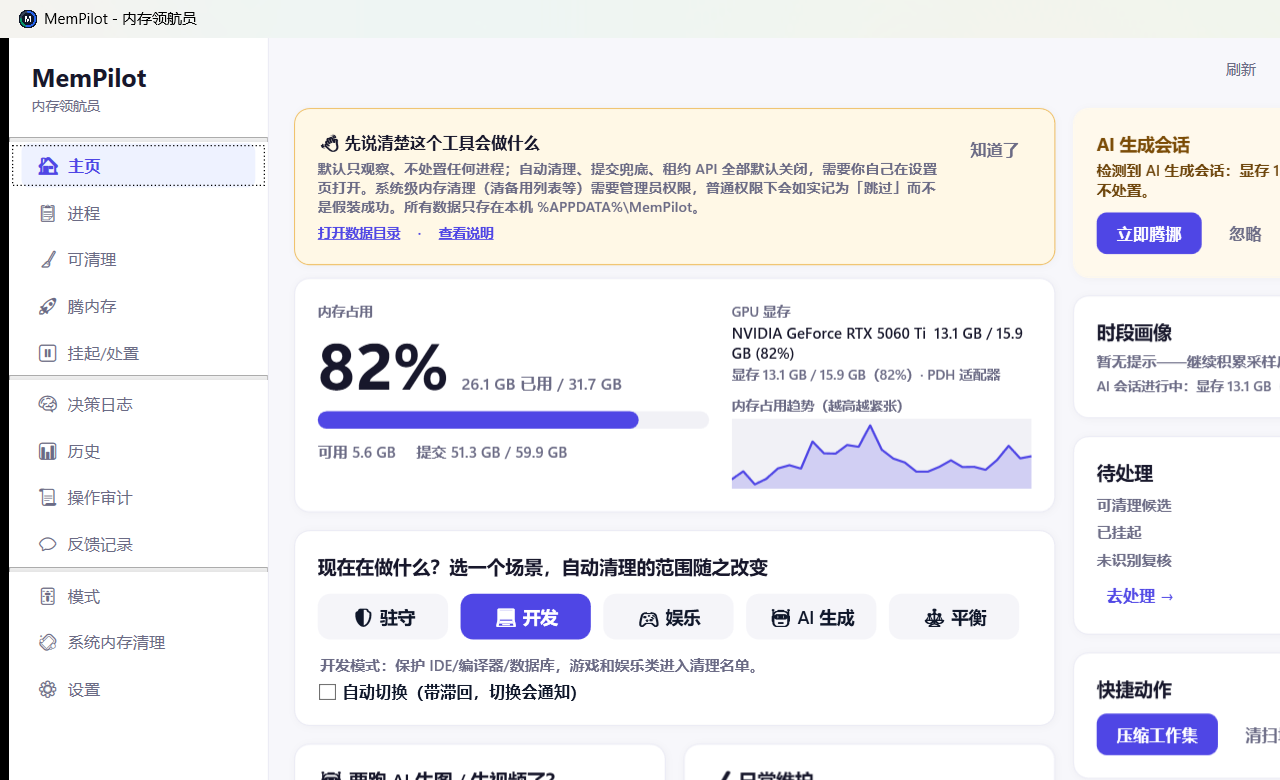
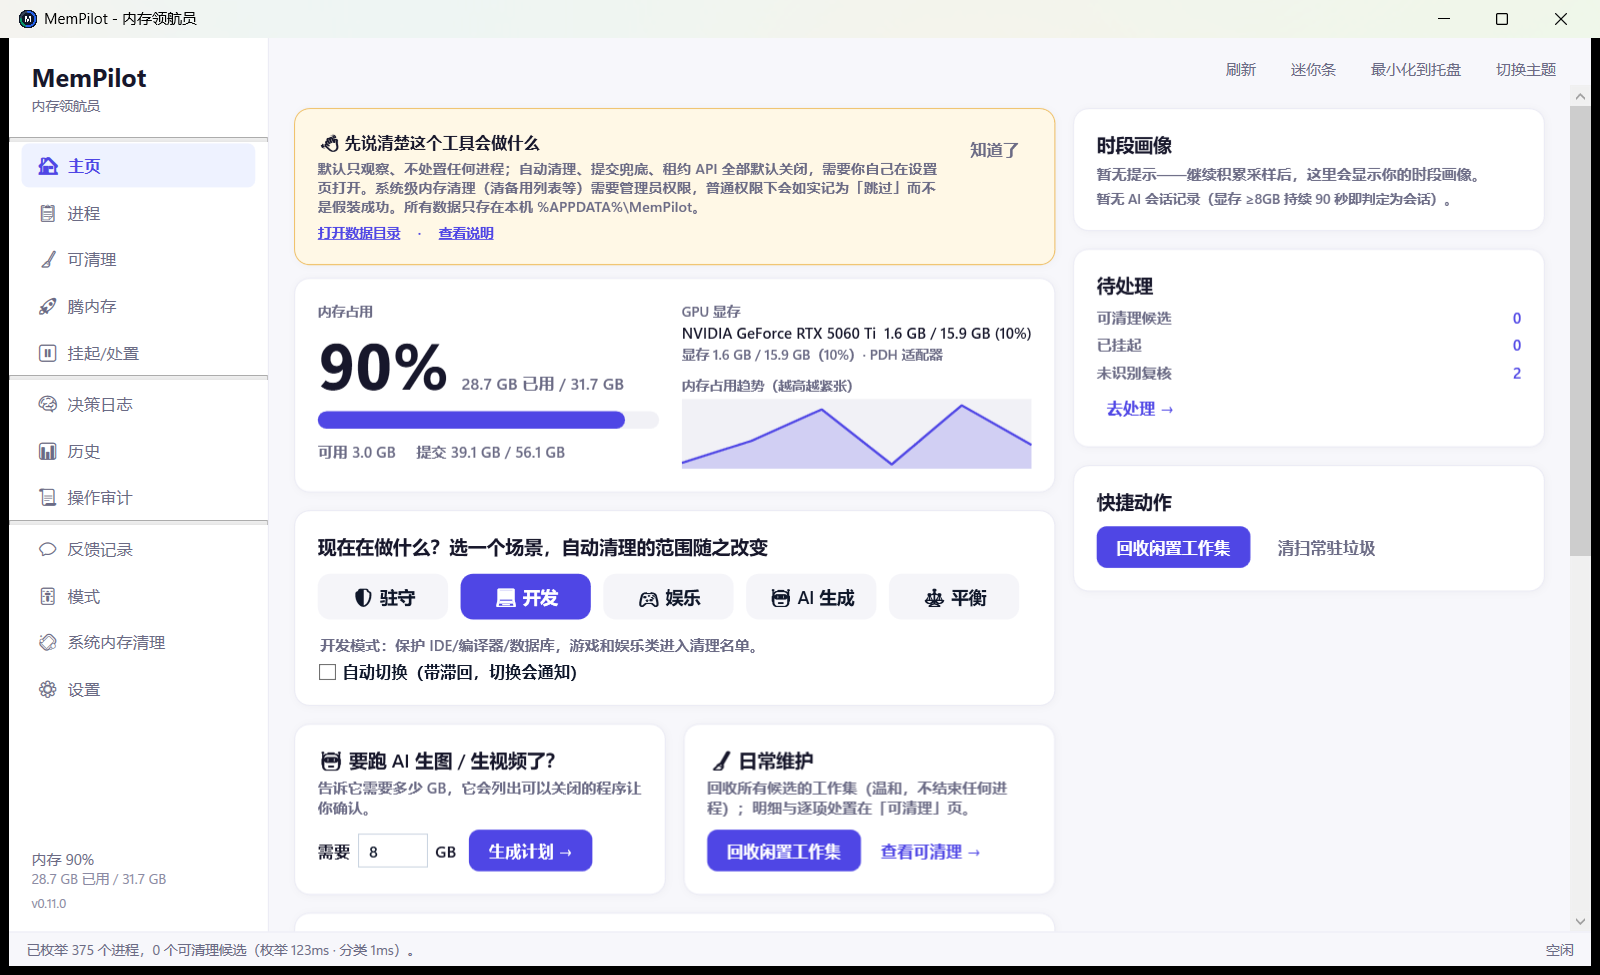
feat: v0.12.0 — UX 摸排 P2 打磨：主题 token 化 + 菜单分组 + 导航重组
- 主题：MainWindow 里 10 处硬编码 hex 收进 App.xaml 语义 token（暗色将来只改一处）；
  删重复 token；守卫测试在此过程中抓到真崩溃（DropShadowEffect.Color 不能吃 Brush）
- 进程右键 17 项平铺 → 4 组（处置/内存策略/标记/线程）+ 组头；列设置 12 项 → 4 组
- 导航：反馈记录 观测→高级；emoji 单空格；删死注释
- 决策日志 Kind 列中文映射（UiTerms.OfKind 15 类）；进程工具栏 WrapPanel；
  首页「日常维护」卡去重（计数只出现一次）

测试 377 全绿

diff --git a/src/MemPilot.App/MainWindow.xaml b/src/MemPilot.App/MainWindow.xaml
@@ -11,6 +11,7 @@
     <Window.Resources>
         <helpers:ByteSizeConverter x:Key="Bytes"/>
         <helpers:CollectionEmptyToVisibility x:Key="CollEmpty"/>
+        <helpers:KindTextConverter x:Key="KindText"/>
         <helpers:SignedBytesConverter x:Key="SignedBytes"/>
         <helpers:WorkloadTextConverter x:Key="WorkloadText"/>
         <helpers:IndentConverter x:Key="Indent"/>
@@ -41,7 +42,7 @@
                                     <Condition Property="IsSelected" Value="False"/>
                                 </MultiTrigger.Conditions>
                                 <Setter TargetName="Bd" Property="Background" Value="{DynamicResource NavHoverBg}"/>
-                                <Setter Property="Foreground" Value="#334155"/>
+                                <Setter Property="Foreground" Value="{DynamicResource NavHoverFg}"/>
                             </MultiTrigger>
                         </ControlTemplate.Triggers>
                     </ControlTemplate>
@@ -126,7 +127,7 @@
             <Setter Property="Margin" Value="0,0,0,14"/>
             <Setter Property="Effect">
                 <Setter.Value>
-                    <DropShadowEffect Color="#17172B" Opacity="0.035" BlurRadius="10" ShadowDepth="1"/>
+                    <DropShadowEffect Color="{DynamicResource WindowShadow}" Opacity="0.035" BlurRadius="10" ShadowDepth="1"/>
                 </Setter.Value>
             </Setter>
         </Style>
@@ -214,7 +215,7 @@
         </Style>
 
         <Style x:Key="DgHeader" TargetType="DataGridColumnHeader">
-            <Setter Property="Background" Value="#FAFAFC"/>
+            <Setter Property="Background" Value="{DynamicResource GridHeaderBg}"/>
             <Setter Property="Foreground" Value="{DynamicResource TextSecondary}"/>
             <Setter Property="FontWeight" Value="SemiBold"/>
             <Setter Property="FontSize" Value="{StaticResource FsCaption}"/>
@@ -230,7 +231,7 @@
             <Setter Property="RowHeight" Value="28"/>
             <Setter Property="AlternatingRowBackground" Value="{DynamicResource RowAltBg}"/>
             <Setter Property="GridLinesVisibility" Value="Horizontal"/>
-            <Setter Property="HorizontalGridLinesBrush" Value="#E5E7EB"/>
+            <Setter Property="HorizontalGridLinesBrush" Value="{DynamicResource GridLine}"/>
             <Setter Property="ColumnHeaderStyle" Value="{StaticResource DgHeader}"/>
             <Setter Property="EnableRowVirtualization" Value="True"/>
             <Setter Property="VirtualizingPanel.IsVirtualizing" Value="True"/>
@@ -322,7 +323,7 @@
                             <!-- v0.10.0 首次运行说明：第一次打开时出现，点「知道了」后永久不再显示。
                                  不弹模态框（用户明确反感），就一条可关闭的横幅。 -->
                             <Border x:Name="FirstRunNotice" Style="{StaticResource Card}" Margin="0,0,0,10"
-                                    Background="#FFF8E6" BorderBrush="#F0C36D" BorderThickness="1"
+                                    Background="{DynamicResource NoticeBg}" BorderBrush="{DynamicResource NoticeBorder}" BorderThickness="1"
                                     Visibility="Collapsed">
                                 <Grid>
                                     <Grid.ColumnDefinitions>
@@ -375,7 +376,7 @@
                                         <TextBlock Text="内存占用趋势（越高越紧张）" Style="{StaticResource CaptionText}"/>
                                         <Viewbox Height="56" Stretch="Fill" HorizontalAlignment="Stretch" Margin="0,4,0,0">
                                             <Canvas Width="260" Height="64" Background="{DynamicResource TrackBg}" ClipToBounds="True">
-                                                <Polygon Points="{Binding MemoryTrendAreaPoints}" Fill="#334F46E5"/>
+                                                <Polygon Points="{Binding MemoryTrendAreaPoints}" Fill="{DynamicResource TrendAreaFill}"/>
                                                 <Polyline Points="{Binding MemoryTrendPoints}" Stroke="{DynamicResource AccentBlue}" StrokeThickness="2" StrokeLineJoin="Round"/>
                                             </Canvas>
                                         </Viewbox>
@@ -418,8 +419,8 @@
                                 <Border Grid.Column="1" Style="{StaticResource Card}" Margin="7,0,0,14">
                                     <StackPanel>
                                         <TextBlock Text="🧹 日常维护" Style="{StaticResource SectionTitle}"/>
-                                        <TextBlock Foreground="{DynamicResource TextSecondary}" FontSize="12" Margin="0,4,0,10">
-                                            可清理候选 <Run Text="{Binding UnusedCandidates.Count, Mode=OneWay}" FontWeight="Bold"/><Run Text=" 个 · 已挂起 "/><Run Text="{Binding SuspendedProcesses.Count, Mode=OneWay}" FontWeight="Bold"/><Run Text=" 个"/>
+                                        <TextBlock Foreground="{DynamicResource TextSecondary}" FontSize="12" Margin="0,4,0,10" TextWrapping="Wrap">
+                                            回收所有候选的工作集（温和，不结束任何进程）；明细与逐项处置在「可清理」页。
                                         </TextBlock>
                                         <StackPanel Orientation="Horizontal">
                                             <Button Content="回收闲置工作集" Click="Optimize_Click" Style="{StaticResource PrimaryBtn}"/>
@@ -439,7 +440,7 @@
                                         <ItemsControl.ItemTemplate>
                                             <DataTemplate>
                                                 <TextBlock Margin="0,3" FontSize="12" TextWrapping="Wrap">
-                                                    <Run Text="{Binding TimeText, Mode=OneWay}" Foreground="#94A3B8"/>
+                                                    <Run Text="{Binding TimeText, Mode=OneWay}" Foreground="{DynamicResource TimestampMuted}"/>
                                                     <Run Text="{Binding LineText, Mode=OneWay}"/>
                                                 </TextBlock>
                                             </DataTemplate>
@@ -549,7 +550,7 @@
                     </Grid.RowDefinitions>
                     <DockPanel Margin="0,0,0,6">
                         <TextBlock DockPanel.Dock="Right" Text="右键 = 处置 · 双击 = 定位文件" VerticalAlignment="Center" FontSize="11" Foreground="{DynamicResource TextSecondary}"/>
-                        <StackPanel Orientation="Horizontal">
+                        <WrapPanel>
                             <TextBox x:Name="SearchBox" Width="200" Margin="0,0,8,0" TextChanged="SearchBox_TextChanged" Padding="6,5" VerticalContentAlignment="Center"/>
                             <ComboBox x:Name="WorkloadFilterBox" Width="104" Margin="0,0,8,0" VerticalAlignment="Center" ToolTip="按用途筛选（工作/娱乐/AI/系统/其他/未知）" SelectionChanged="WorkloadFilter_Changed">
                                 <ComboBoxItem Content="全部用途" Tag=""/>
@@ -565,17 +566,22 @@
                                 <Button.ContextMenu>
                                     <ContextMenu Opened="ColumnMenu_Opened">
                                         <!-- Tag = 稳定 id（写进 config.json），Header = 显示文本。
-                                             v0.10.0 起两者分离，否则加语言会让列设置静默重置。 -->
+                                             v0.10.0 起两者分离，否则加语言会让列设置静默重置。
+                                             v0.11.0：12 项平铺 → 4 组（标识/内存/显存/证据），组头禁用项仅作标题 -->
+                                        <MenuItem Header="标识" IsEnabled="False" FontWeight="SemiBold"/>
                                         <MenuItem Header="所属程序" Tag="program" IsCheckable="True" Click="ColumnToggle_Click"/>
-                                        <MenuItem Header="显存" Tag="gpu_memory" IsCheckable="True" Click="ColumnToggle_Click"/>
-                                        <MenuItem Header="内存增长" Tag="memory_growth" IsCheckable="True" Click="ColumnToggle_Click"/>
-                                        <MenuItem Header="线程数" Tag="threads" IsCheckable="True" Click="ColumnToggle_Click"/>
-                                        <MenuItem Header="子进程" Tag="child_count" IsCheckable="True" Click="ColumnToggle_Click"/>
                                         <MenuItem Header="窗口标题" Tag="window_title" IsCheckable="True" Click="ColumnToggle_Click"/>
                                         <MenuItem Header="厂商" Tag="vendor" IsCheckable="True" Click="ColumnToggle_Click"/>
+                                        <MenuItem Header="线程数" Tag="threads" IsCheckable="True" Click="ColumnToggle_Click"/>
+                                        <MenuItem Header="子进程" Tag="child_count" IsCheckable="True" Click="ColumnToggle_Click"/>
+                                        <MenuItem Header="内存" IsEnabled="False" FontWeight="SemiBold"/>
+                                        <MenuItem Header="内存增长" Tag="memory_growth" IsCheckable="True" Click="ColumnToggle_Click"/>
                                         <MenuItem Header="音频" Tag="audio" IsCheckable="True" Click="ColumnToggle_Click"/>
                                         <MenuItem Header="保护" Tag="protected" IsCheckable="True" Click="ColumnToggle_Click"/>
                                         <MenuItem Header="模式保留" Tag="mode_keep" IsCheckable="True" Click="ColumnToggle_Click"/>
+                                        <MenuItem Header="显存" IsEnabled="False" FontWeight="SemiBold"/>
+                                        <MenuItem Header="显存" Tag="gpu_memory" IsCheckable="True" Click="ColumnToggle_Click"/>
+                                        <MenuItem Header="证据" IsEnabled="False" FontWeight="SemiBold"/>
                                         <MenuItem Header="签名" Tag="signature" IsCheckable="True" Click="ColumnToggle_Click"/>
                                         <MenuItem Header="分类依据" Tag="category_reason" IsCheckable="True" Click="ColumnToggle_Click"/>
                                     </ContextMenu>
@@ -588,7 +594,7 @@
                             <ToggleButton x:Name="ChipGame" Content="游戏" Style="{StaticResource ToolToggle}" Click="CategoryChip_Click" Margin="0,0,4,0"/>
                             <ToggleButton x:Name="ChipAi" Content="AI" Style="{StaticResource ToolToggle}" Click="CategoryChip_Click" Margin="0,0,4,0"/>
                             <ToggleButton x:Name="ChipUnknown" Content="未识别" Style="{StaticResource ToolToggle}" Click="CategoryChip_Click"/>
-                        </StackPanel>
+                        </WrapPanel>
                     </DockPanel>
                     <Grid Grid.Row="1"><DataGrid x:Name="ProcessGrid" ItemsSource="{Binding FilteredProcesses}" AutoGenerateColumns="False" IsReadOnly="True" FrozenColumnCount="2" SelectionChanged="ProcessGrid_SelectionChanged" MouseDoubleClick="ProcessGrid_DoubleClick" Sorting="ProcessGrid_Sorting">
                         <DataGrid.RowStyle>
@@ -608,19 +614,23 @@
                         </DataGrid.RowStyle>
                         <DataGrid.ContextMenu>
                             <ContextMenu>
-                                <MenuItem Header="L1 回收工作集（温和）" Click="CtxL1_Click"/>
-                                <MenuItem Header="L2 挂起进程（可恢复）" Click="CtxL2_Click"/>
-                                <MenuItem Header="L3 优雅关闭（先让它自己退出）" Click="CtxL3_Click"/>
-                                <MenuItem Header="L4 强制结束（需确认）" Click="CtxL4_Click"/>
+                                <MenuItem Header="处置" IsEnabled="False" FontWeight="SemiBold"/>
+                                <MenuItem Header="回收工作集 (L1)" Click="CtxL1_Click"/>
+                                <MenuItem Header="挂起 (L2，可恢复)" Click="CtxL2_Click"/>
+                                <MenuItem Header="优雅关闭 (L3)" Click="CtxL3_Click"/>
+                                <MenuItem Header="强制结束 (L4，需确认)" Click="CtxL4_Click"/>
                                 <Separator/>
                                 <MenuItem Header="恢复挂起" Click="CtxResumeProcess_Click"/>
-                                <MenuItem Header="线程 ▸ 管理线程（TID 级挂起/恢复）" Click="ManageThreads_Click"/>
+                                <MenuItem Header="管理线程 (TID 级挂起/恢复)" Click="ManageThreads_Click"/>
+                                <Separator/>
+                                <MenuItem Header="内存策略" IsEnabled="False" FontWeight="SemiBold"/>
                                 <Separator/>
                                 <MenuItem Header="降低内存优先级" Click="CtxMemPriorityLow_Click"/>
                                 <MenuItem Header="恢复内存优先级" Click="CtxMemPriorityNormal_Click"/>
                                 <MenuItem Header="开启 EcoQoS 节能" Click="CtxEcoOn_Click"/>
                                 <MenuItem Header="关闭 EcoQoS" Click="CtxEcoOff_Click"/>
                                 <Separator/>
+                                <MenuItem Header="标记" IsEnabled="False" FontWeight="SemiBold"/>
                                 <MenuItem Header="标记用途">
                                     <MenuItem Header="工作" Tag="Work" Click="CtxWorkload_Click"/>
                                     <MenuItem Header="娱乐" Tag="Entertainment" Click="CtxWorkload_Click"/>
@@ -866,7 +876,7 @@
                     <Grid><DataGrid Grid.Row="1" ItemsSource="{Binding DecisionEntries}" AutoGenerateColumns="False" IsReadOnly="True">
                         <DataGrid.Columns>
                             <DataGridTextColumn Header="时间" Binding="{Binding TimeText}" Width="150"/>
-                            <DataGridTextColumn Header="类别" Binding="{Binding Kind}" Width="110"/>
+                            <DataGridTextColumn Header="类别" Binding="{Binding Kind, Converter={StaticResource KindText}}" Width="110"/>
                             <DataGridTextColumn Header="目标" Binding="{Binding Target}" Width="220"/>
                             <DataGridTextColumn Header="决定" Binding="{Binding Decision}" Width="130"/>
                             <DataGridTextColumn Header="原因" Binding="{Binding Reason}" Width="*"/>
@@ -898,7 +908,7 @@
                                     <TextBlock Canvas.Left="646" Canvas.Top="2" Text="100%" FontSize="9" Foreground="{DynamicResource TextSecondary}"/>
                                     <TextBlock Canvas.Left="646" Canvas.Top="72" Text="50%" FontSize="9" Foreground="{DynamicResource TextSecondary}"/>
                                     <TextBlock Canvas.Left="646" Canvas.Top="142" Text="0%" FontSize="9" Foreground="{DynamicResource TextSecondary}"/>
-                                    <Polygon Points="{Binding HistoryAreaPoints}" Fill="#332563EB"/>
+                                    <Polygon Points="{Binding HistoryAreaPoints}" Fill="{DynamicResource HistoryAreaFill}"/>
                                     <Polyline Points="{Binding HistoryPoints}" Stroke="{DynamicResource AccentBlue}" StrokeThickness="2.5" StrokeLineJoin="Round"/>
                                 </Canvas>
                                 </Viewbox>
@@ -917,7 +927,7 @@
                                     <TextBlock Canvas.Left="646" Canvas.Top="2" Text="100%" FontSize="9" Foreground="{DynamicResource TextSecondary}"/>
                                     <TextBlock Canvas.Left="646" Canvas.Top="72" Text="50%" FontSize="9" Foreground="{DynamicResource TextSecondary}"/>
                                     <TextBlock Canvas.Left="646" Canvas.Top="142" Text="0%" FontSize="9" Foreground="{DynamicResource TextSecondary}"/>
-                                    <Polygon Points="{Binding GpuHistoryAreaPoints}" Fill="#3355C8A5"/>
+                                    <Polygon Points="{Binding GpuHistoryAreaPoints}" Fill="{DynamicResource GpuAreaFill}"/>
                                     <Polyline Points="{Binding GpuHistoryPoints}" Stroke="{DynamicResource AccentGreen}" StrokeThickness="2.5" StrokeLineJoin="Round"/>
                                 </Canvas>
                                 </Viewbox>
@@ -1012,8 +1022,9 @@
                                    Visibility="{Binding AuditEntries, Converter={StaticResource CollEmpty}}"/></Grid>
             </TabItem>
 
-            <!-- ============ 线程 ============ -->
             <!-- ============ 模式 ============ -->
+            
+            <TextBlock Text="高级" Style="{StaticResource NavGroup}"/>
             <TabItem Header="💬  反馈记录" Tag="feedback" Style="{StaticResource NavTab}">
                 <Grid Margin="14,14,14,0">
                     <Grid.RowDefinitions>
@@ -1044,8 +1055,6 @@
                     </DataGrid>
                 </Grid>
             </TabItem>
-
-            <TextBlock Text="高级" Style="{StaticResource NavGroup}"/>
             <TabItem Header="🎚  模式" Tag="mode" Style="{StaticResource NavTab}">
                 <!-- v0.11.0：标题移到页首（原来在第一张卡片下面，顺序倒置）；整页包 ScrollViewer（矮窗口时下半页不可达） -->
                 <ScrollViewer VerticalScrollBarVisibility="Auto">

diff --git a/src/MemPilot.App/App.xaml b/src/MemPilot.App/App.xaml
@@ -39,8 +39,18 @@
         <SolidColorBrush x:Key="WarnBg" Color="#FFF9EC"/>
         <SolidColorBrush x:Key="WarnFg" Color="#7A4B05"/>
         <SolidColorBrush x:Key="WarnInk" Color="#6B4207"/>
-        <SolidColorBrush x:Key="OkColor" Color="#12734F"/>
-        <SolidColorBrush x:Key="ShadowColor" Color="#17172B"/>
+        <!-- v0.11.0 UX 摸排 P2：MainWindow 里的 10 处硬编码 hex 收进令牌（原样值），暗色主题将来只改这里 -->
+        <SolidColorBrush x:Key="NavHoverFg" Color="#334155"/>
+        <Color x:Key="WindowShadow">#17172B</Color>
+        <SolidColorBrush x:Key="GridHeaderBg" Color="#FAFAFC"/>
+        <SolidColorBrush x:Key="GridHeaderBorder" Color="#374151"/>
+        <SolidColorBrush x:Key="GridLine" Color="#E5E7EB"/>
+        <SolidColorBrush x:Key="NoticeBg" Color="#FFF8E6"/>
+        <SolidColorBrush x:Key="NoticeBorder" Color="#F0C36D"/>
+        <SolidColorBrush x:Key="TrendAreaFill" Color="#334F46E5"/>
+        <SolidColorBrush x:Key="TimestampMuted" Color="#94A3B8"/>
+        <SolidColorBrush x:Key="HistoryAreaFill" Color="#332563EB"/>
+        <SolidColorBrush x:Key="GpuAreaFill" Color="#3355C8A5"/>
 
         <!-- ===== 字阶令牌（五档） ===== -->
         <sys:Double x:Key="FsDisplay">28</sys:Double>

diff --git a/src/MemPilot.Core/Services/UiTerms.cs b/src/MemPilot.Core/Services/UiTerms.cs
@@ -58,4 +58,26 @@ public static class UiTerms
         "L0Purge" => "清理备用列表 (L0)",
         _ => level,
     };
+
+    /// <summary>决策日志 Kind 的中文名（v0.11.0 P2-4：日志页不再亮内部枚举值）。</summary>
+    public static string OfKind(string kind) => kind switch
+    {
+        "Lease" => "租约",
+        "AiSession" => "AI 会话",
+        "CommitRelief" => "提交兜底",
+        "CommitWatch" => "提交观察",
+        "ModeSwitch" => "模式切换",
+        "ModeSwitchSuppressed" => "模式切换抑制",
+        "ModeSwitchStorm" => "模式切换风暴",
+        "RuleAudit" => "规则体检",
+        "PromoteRule" => "规则晋升建议",
+        "Diag" => "诊断",
+        "GrowthWatch" => "内存增长观察",
+        "SceneShadow" => "场景影子",
+        "HabitHint" => "时段提醒",
+        "AutoCleanup" => "自动清理",
+        "AutoJunkSweep" => "常驻垃圾清扫",
+        "AutoOptimize" => "系统内存自动优化（已废弃）",
+        _ => kind,
+    };
 }

diff --git a/src/MemPilot.App/Helpers/KindTextConverter.cs b/src/MemPilot.App/Helpers/KindTextConverter.cs
@@ -1,0 +1,19 @@
+using System.Globalization;
+using System.Windows.Data;
+using MemPilot.Services;
+
+namespace MemPilot.Helpers;
+
+/// <summary>
+/// 决策日志 Kind / 审计 Action 的中文映射（v0.11.0 P2-4）。
+/// 摸排结论：这两页把内部枚举值（GrowthWatch / L1Trim / CommitRelief…）直接亮给用户，
+/// 是"最像开发者表"的两页。映射表集中在 UiTerms 旁边，加新 Kind 时一处补齐。
+/// </summary>
+public class KindTextConverter : IValueConverter
+{
+    public object Convert(object? value, Type targetType, object? parameter, CultureInfo culture)
+        => UiTerms.OfKind(value as string ?? "");
+
+    public object ConvertBack(object? value, Type targetType, object? parameter, CultureInfo culture)
+        => throw new NotSupportedException();
+}

diff --git a/CHANGELOG.md b/CHANGELOG.md
@@ -4,6 +4,27 @@ All notable changes to MemPilot are documented here.
 Format follows [Keep a Changelog](https://keepachangelog.com/en/1.1.0/);
 versioning is `0.y.z` while the project is pre-1.0.
 
+## [0.12.0] — UX overhaul round 2 (polish)
+
+### Changed
+- **Theme tokens**: the 10 hardcoded hex colors scattered in MainWindow.xaml
+  (nav hover, grid header, gridlines, notice banner, chart fills, timestamps)
+  are now semantic brushes in App.xaml — dark theme becomes a token-swap instead
+  of a hunt. Dead/duplicate tokens removed. One guard test caught a real crash
+  during this change (`DropShadowEffect.Color` cannot take a brush — it needs a
+  `<Color>` resource).
+- **Context menu regrouped**: the process grid's 17 flat items are now 4 groups
+  (处置 / 内存策略 / 标记 / 线程) with disabled group headers, using the unified
+  terminology.
+- **Column settings menu grouped**: 12 flat items → 标识 / 内存 / 显存 / 证据.
+- **Navigation regrouped**: 反馈记录 moved from 观测 to 高级 (it is user data +
+  rule maintenance, not observation); emoji separators normalized; dead comment
+  removed.
+- **Decisions page Kind column** is now Chinese (`GrowthWatch` → 内存增长观察,
+  15 kinds mapped in `UiTerms.OfKind`); the process toolbar wraps instead of
+  overflowing; the home page no longer shows the same two counts twice
+  (日常维护 card now explains what the action does instead).
+
 ## [0.11.0] — UX overhaul round 1
 
 A full UI/interaction/notification audit produced this batch: 10 layout/logic
